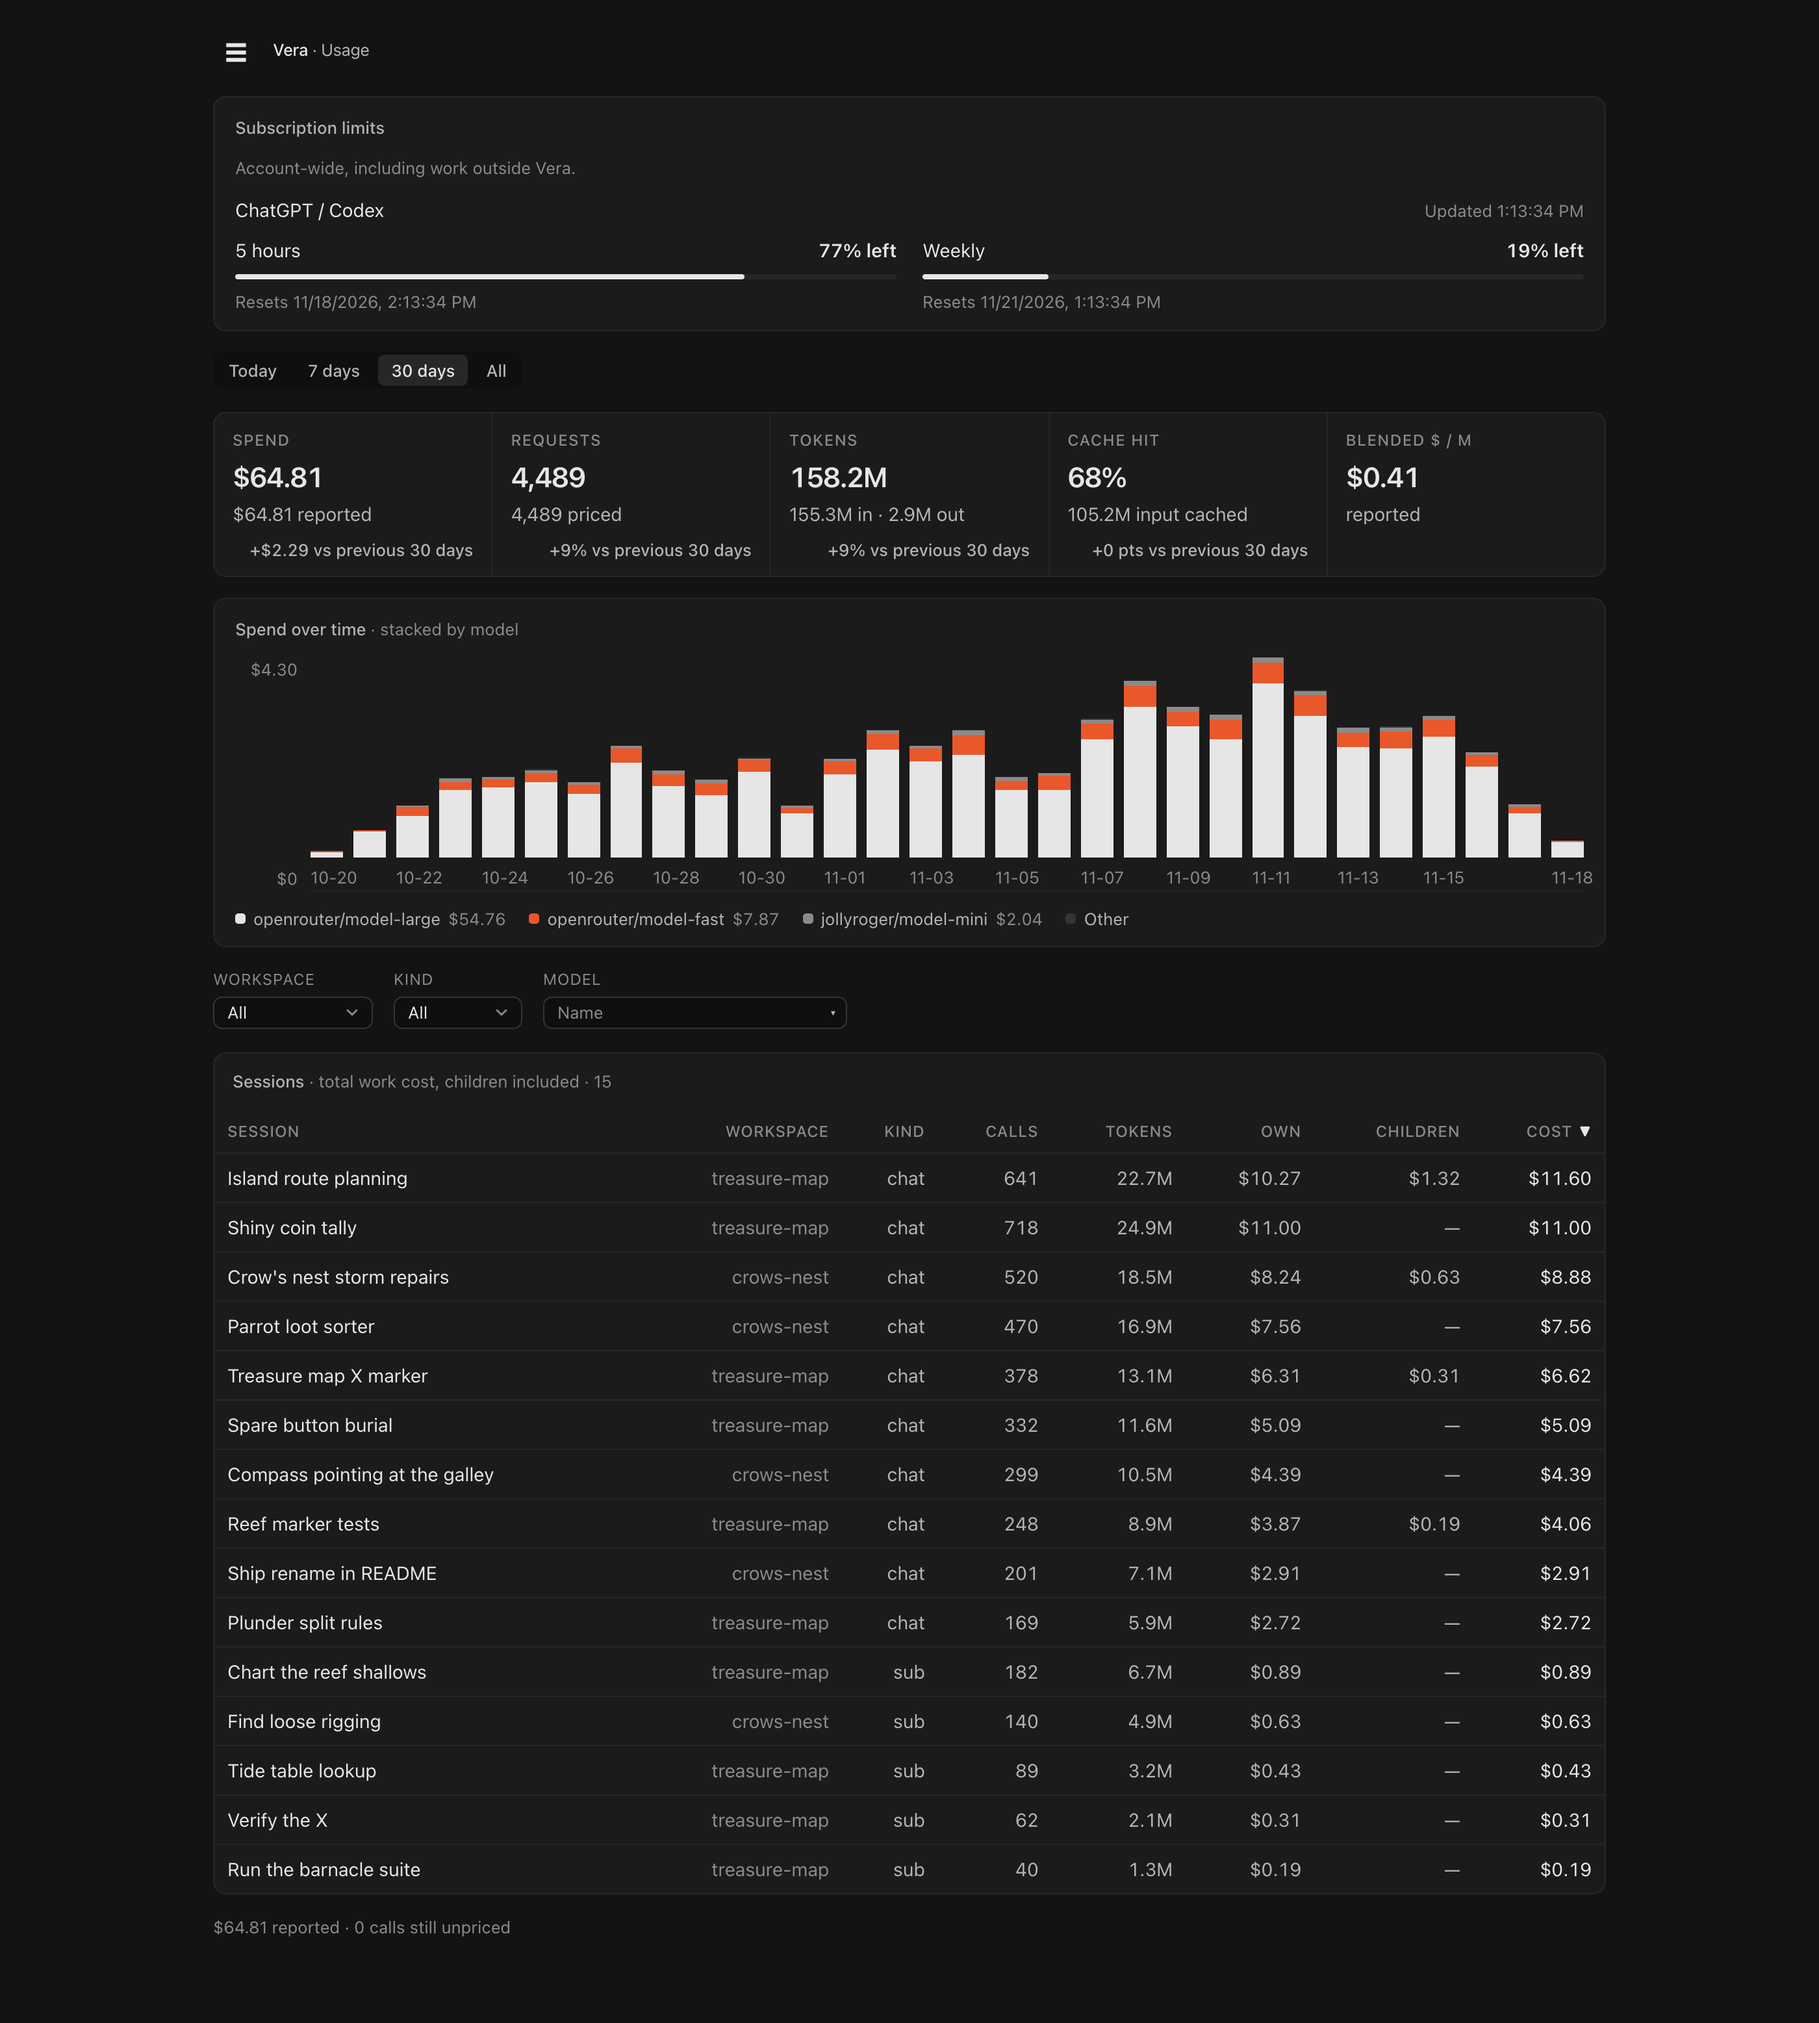
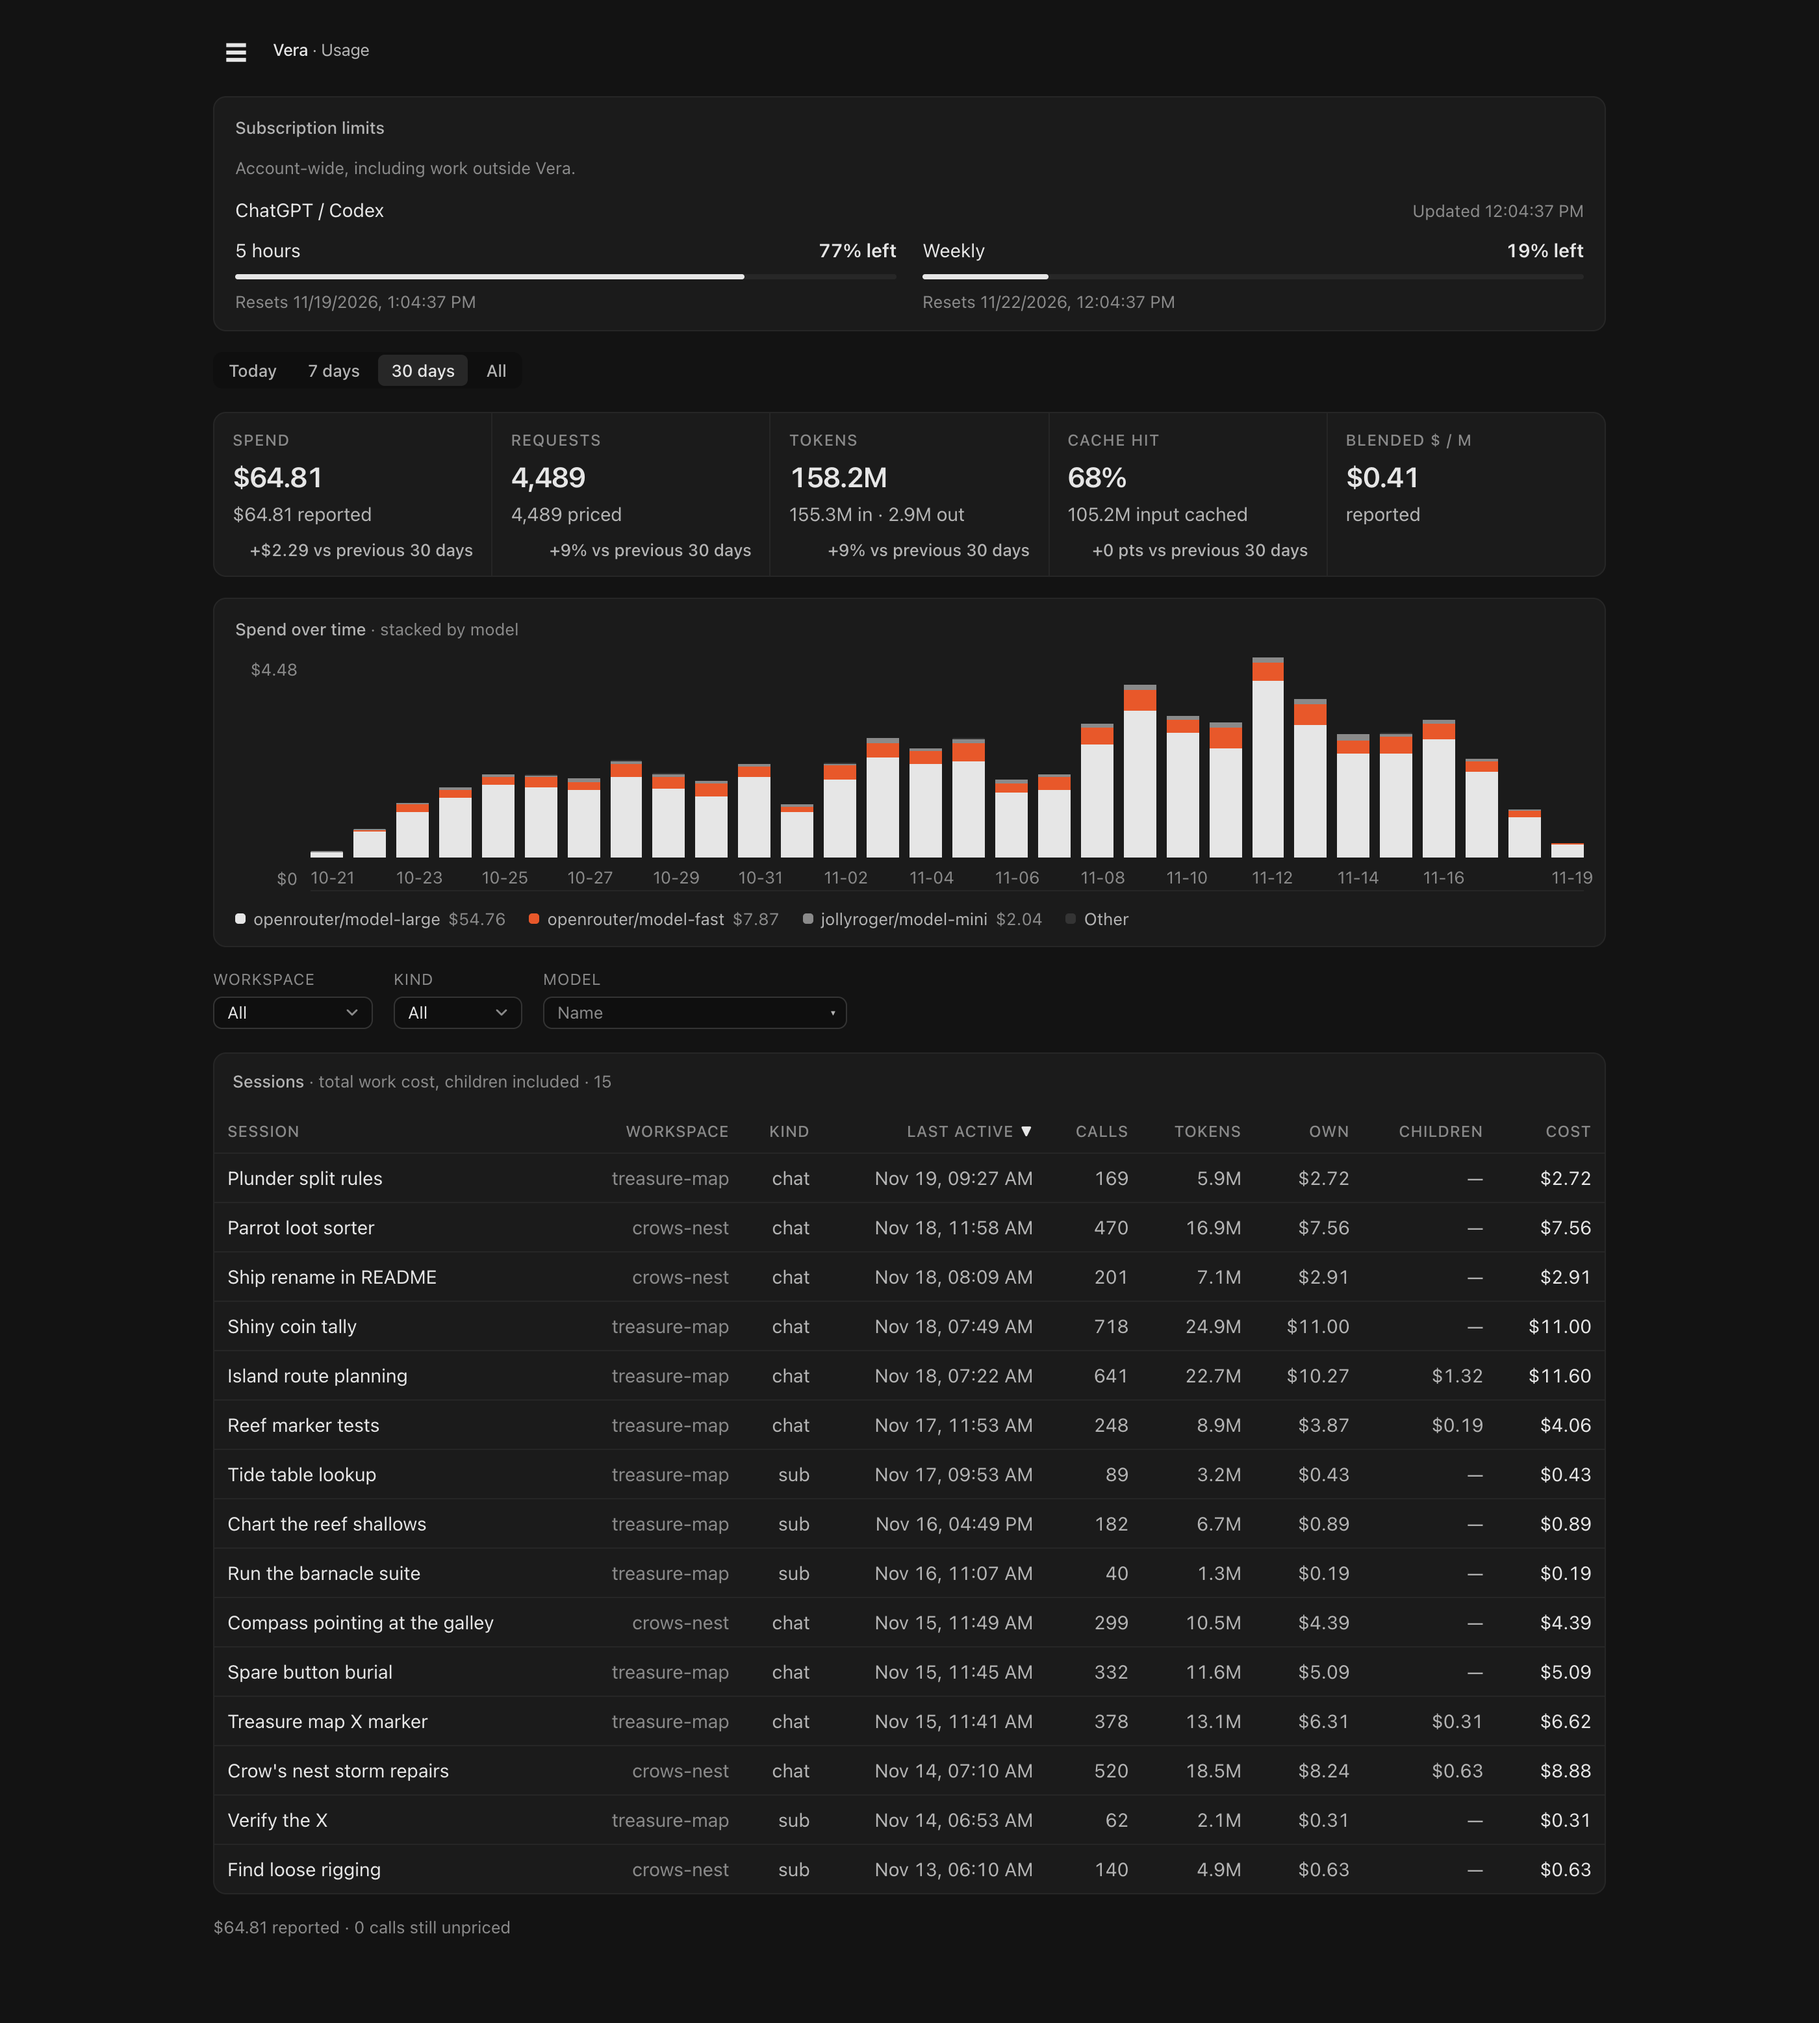
feat: sort the usage sessions table by last active, newest first

diff --git a/test/annex/sessions-table.test.ts b/test/annex/sessions-table.test.ts
@@ -33,14 +33,38 @@ function row(overrides: Partial<UsageSessionRow>): UsageSessionRow {
     };
 }
 
-test("default sort is combined cost descending, then recency", () => {
+test("default sort is last active newest first", () => {
     const rows = [
         row({ id: "old-high", combined: 5, updatedAt: "2026-08-01T00:00:00.000Z" }),
         row({ id: "new-high", combined: 5, updatedAt: "2026-08-20T00:00:00.000Z" }),
         row({ id: "low", combined: 1, updatedAt: "2026-08-30T00:00:00.000Z" }),
     ];
+    expect(DEFAULT_SESSION_SORT).toEqual({ key: "updatedAt", dir: "desc" });
     expect(sortSessions(rows, DEFAULT_SESSION_SORT).map((item) => item.id))
+        .toEqual(["low", "new-high", "old-high"]);
+    expect(sortSessions(rows, { key: "cost", dir: "desc" }).map((item) => item.id))
         .toEqual(["new-high", "old-high", "low"]);
+});
+
+test("last active starts newest first and flips direction", () => {
+    const newest = nextSessionSort({ key: "cost", dir: "desc" }, "updatedAt");
+    expect(newest).toEqual({ key: "updatedAt", dir: "desc" });
+    const oldest = nextSessionSort(newest, "updatedAt");
+    expect(oldest).toEqual({ key: "updatedAt", dir: "asc" });
+    const rows = [
+        row({ id: "new", updatedAt: "2026-08-30T00:00:00.000Z" }),
+        row({ id: "old", updatedAt: "2026-08-01T00:00:00.000Z" }),
+    ];
+    expect(sortSessions(rows, newest).map((item) => item.id)).toEqual(["new", "old"]);
+    expect(sortSessions(rows, oldest).map((item) => item.id)).toEqual(["old", "new"]);
+});
+
+test("equal last active timestamps break ties by session id in both directions", () => {
+    const rows = [row({ id: "b" }), row({ id: "a" })];
+    expect(sortSessions(rows, { key: "updatedAt", dir: "desc" }).map((item) => item.id))
+        .toEqual(["a", "b"]);
+    expect(sortSessions(rows, { key: "updatedAt", dir: "asc" }).map((item) => item.id))
+        .toEqual(["a", "b"]);
 });
 
 test("clicking a new numeric column starts descending", () => {

diff --git a/clients/annex/App.tsx b/clients/annex/App.tsx
@@ -610,6 +610,12 @@ function Overview({
                                     onSort={cycleSort}
                                 />
                                 <SortHeader
+                                    label="Last active"
+                                    column="updatedAt"
+                                    sort={sort}
+                                    onSort={cycleSort}
+                                />
+                                <SortHeader
                                     label="Calls"
                                     column="calls"
                                     sort={sort}
@@ -652,7 +658,7 @@ function Overview({
                             {paged.total === 0
                                 ? (
                                     <tr>
-                                        <td className="faint" colSpan={8}>
+                                        <td className="faint" colSpan={9}>
                                             {sessions.length === 0
                                                 ? "No sessions in this window"
                                                 : "No sessions match"}
@@ -946,6 +952,7 @@ function SessionPreview({
             <td className="title" title={row.title}>{row.title}</td>
             <td className="ws">{row.workspaceLabel}</td>
             <td className="dim">{kindLabel(row.kind)}</td>
+            <td className="dim">{callTime(row.updatedAt)}</td>
             <td className="dim">{row.calls}</td>
             {tokenCell(row)}
             <td className="dim">{money(row.own)}</td>

diff --git a/clients/annex/sessions-table.ts b/clients/annex/sessions-table.ts
@@ -6,6 +6,7 @@ export type SessionSortKey =
     | "title"
     | "workspace"
     | "kind"
+    | "updatedAt"
     | "calls"
     | "tokens"
     | "own"
@@ -19,9 +20,10 @@ export interface SessionSort {
     readonly dir: SortDir;
 }
 
-export const DEFAULT_SESSION_SORT: SessionSort = { key: "cost", dir: "desc" };
+export const DEFAULT_SESSION_SORT: SessionSort = { key: "updatedAt", dir: "desc" };
 
-const NUMERIC = new Set<SessionSortKey>([
+const DESCENDING_FIRST = new Set<SessionSortKey>([
+    "updatedAt",
     "calls",
     "tokens",
     "own",
@@ -36,7 +38,7 @@ export function nextSessionSort(
     if (current.key === key) {
         return { key, dir: current.dir === "asc" ? "desc" : "asc" };
     }
-    return { key, dir: NUMERIC.has(key) ? "desc" : "asc" };
+    return { key, dir: DESCENDING_FIRST.has(key) ? "desc" : "asc" };
 }
 
 export interface PageSlice<T> {
@@ -140,6 +142,8 @@ function sortValue(
             return row.workspaceLabel;
         case "kind":
             return row.kind === "subagent" ? "sub" : "chat";
+        case "updatedAt":
+            return row.updatedAt;
         case "calls":
             return row.calls;
         case "tokens":

diff --git a/docs/usage.md b/docs/usage.md
@@ -85,10 +85,14 @@ Filter the table by workspace, kind, or model. Model searches match model IDs,
 not conversation titles. Choose a model from the list to restrict results to
 that exact provider/model route; clear the field to include all models.
 
-Click a column heading to sort. Numeric columns start highest first; names
-start A to Z. Cost is the default, with newer conversations breaking ties.
-The table shows 25 rows per page. Tokens are this conversation's own input
-plus output, shown separately from cost.
+The table starts with the most recently active conversations first. Click a
+column heading to sort: Last active starts newest first, numeric columns start
+highest first, and names start A to Z. Click the same heading again to reverse
+its order. Last active reflects the conversation's own latest call in the
+selected window, or its file modification time if it has no calls in that
+window. Child calls do not change the parent's
+Last active. The table shows 25 rows per page. Tokens are this conversation's
+own input plus output, shown separately from cost.
 
 ### Inspect delegated work
 
